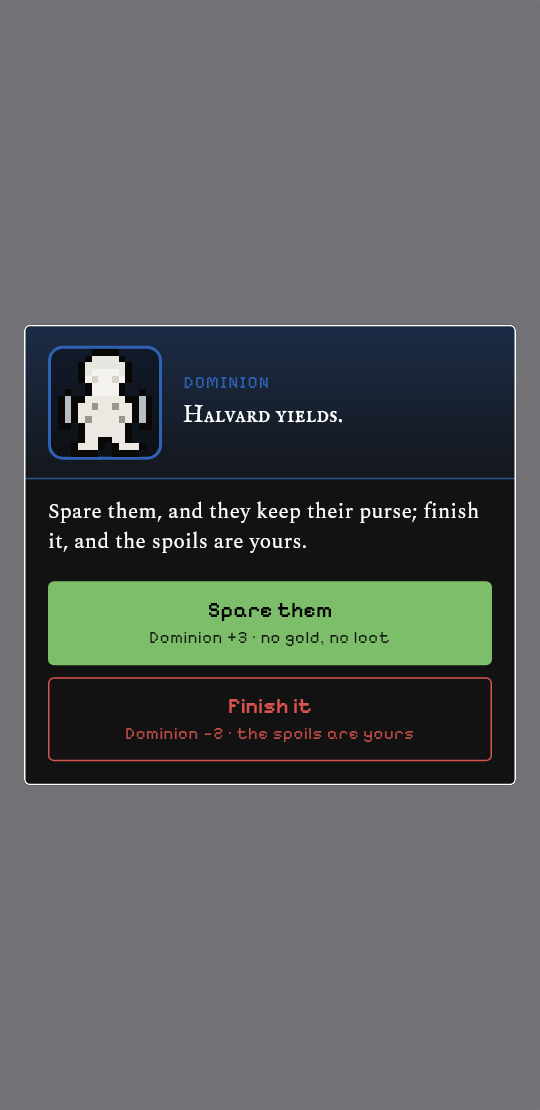
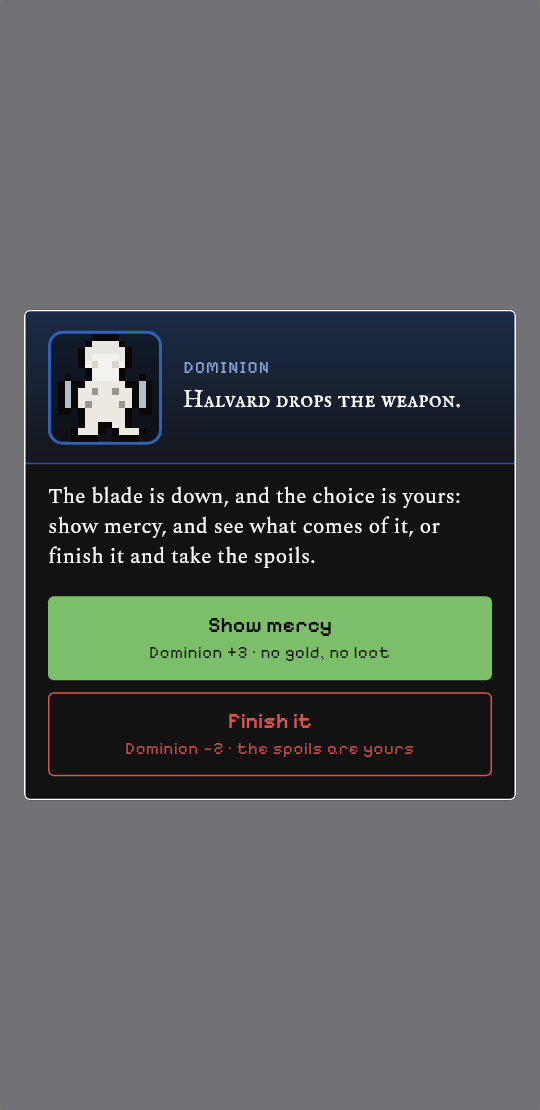
v1.389.0: place-rule marks, patron favour line, styled mercy card
Claude-Session: https://claude.ai/code/session_01Y8cU3zPWWudNpnZGCrkKEc

Changed region(s): [[0.0296, 0.2757, 0.9778, 0.7351]]

diff --git a/test/mercy_dialog_test.dart b/test/mercy_dialog_test.dart
@@ -15,6 +15,7 @@ import 'package:shared_preferences/shared_preferences.dart';
 
 import 'package:narrative_data_app/data/factions.dart';
 import 'package:narrative_data_app/l10n/app_locale.dart';
+import 'package:narrative_data_app/l10n/app_strings.dart';
 import 'package:narrative_data_app/providers/clans_provider.dart';
 import 'package:narrative_data_app/providers/player_session_provider.dart';
 import 'package:narrative_data_app/theme/stitched_ink.dart';
@@ -113,7 +114,10 @@ void main() {
     final answer = <bool>[];
     await open(tester, answer);
     expect(find.byKey(const Key('mercy_dialog')), findsOneWidget);
-    expect(find.text('Halvard yields.'), findsOneWidget);
+    expect(
+        find.text(trFor(AppLanguage.en, 'mercy_title')
+            .replaceAll('{name}', 'Halvard')),
+        findsOneWidget);
     expect(find.textContaining('+3'), findsOneWidget);
     expect(find.textContaining('\u22122'), findsOneWidget);
     // No Perception, no read.

diff --git a/lib/app_info.dart b/lib/app_info.dart
@@ -1,6 +1,6 @@
 class AppInfo {
   static const String name = 'Narrative Data App';
-  static const String version = '1.388.0';
+  static const String version = '1.389.0';
 
   static String get displayName => '$name v$version';
 }

diff --git a/CHANGELOG.md b/CHANGELOG.md
@@ -8,6 +8,17 @@ and the version it bumped `pubspec.yaml` to). Format loosely follows
 History before v1.23.1 predates per-PR versioning in this repository and
 isn't reconstructable from git history alone.
 
+## [1.389.0+425]
+
+The place's rule, the patron's favour and the hunter's mercy, drawn.
+
+### Added
+- **Place-rule marks in the fight.** A chip for the place's rule: its omen the round before (mist, heat, rising water, holy ground, the watch's whistle), then how far it has risen (Mist ×2, Rising water ×3 with the top marked), each with a long-press tip of what it does this round. The boss gets an Enraged chip once the Tide has risen. The Tide alone has no mark.
+- **Patron's favour on level-up.** The level-up pop-up names what the patron gave with the level ("Dominion's favour: +1 Strength, +5 max health") in the clan's colour, English and French.
+
+### Changed
+- **The mercy choice is a card.** The rival hunter's portrait over a band in its clan's colour, the read of their side as a chip, and two buttons that each say what they cost and give (Dominion +3, no gold, no loot / Dominion −2, the spoils are yours). Same choice and rules as before.
+
 ## [1.388.0+424]
 
 Mercy and the omens, in their own words.
